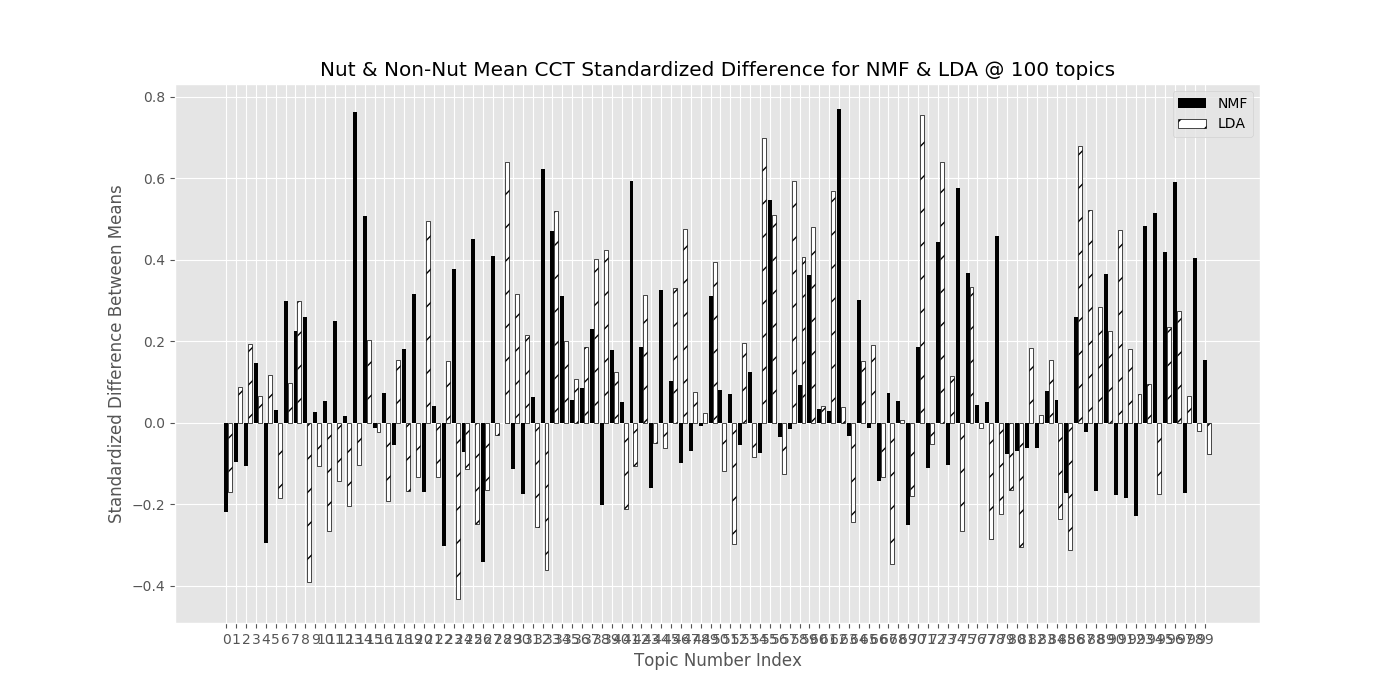
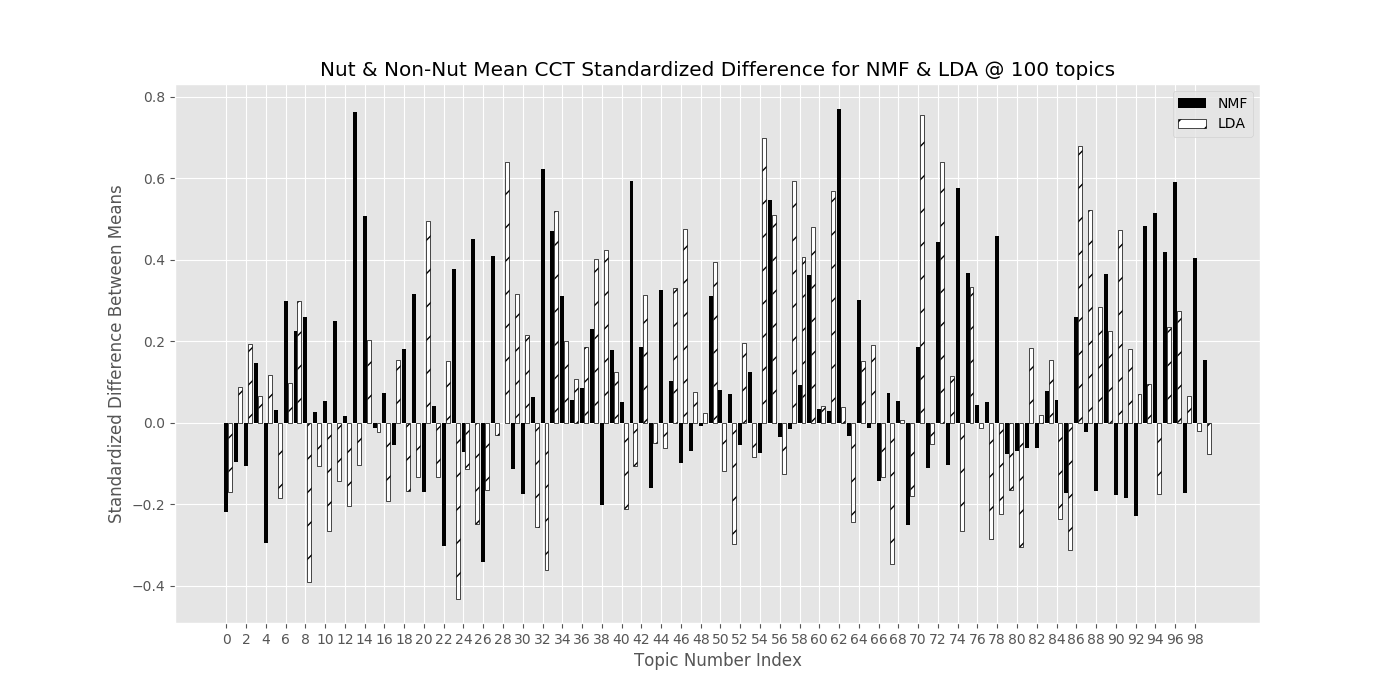
readme appendix edits for nmf and lda

Changed region(s): [[0.2457, 0.9, 0.86, 0.93]]

diff --git a/scripts/topic_analysis.py b/scripts/topic_analysis.py
@@ -389,7 +389,12 @@ def plot_nmf_lda_diff(topic_dfs_nmf, topic_dfs_lda, names_lists, n_topics):
     ax.set_title('Nut & Non-Nut Mean CCT Standardized Difference for NMF & LDA @ %s topics' % n_topics)
     ax.set_xlabel('Topic Number Index')
     ax.set_ylabel('Standardized Difference Between Means')
-    ax.set_xticks(range(n_topics))
+    if n_topics <= 50:
+        ax.set_xticks(np.arange(0, n_topics))
+    elif n_topics <= 100:
+        ax.set_xticks(np.arange(0, n_topics, 2))
+    else:
+        ax.set_xticks(np.arange(0, n_topics, 4))
     plt.legend(loc=1)
     plt.savefig('../images/diff_nmf_lda_%s.png' % n_topics)
     plt.close()

diff --git a/README.md b/README.md
@@ -194,7 +194,7 @@ To get a better idea of the differentiation of users provided by NMF and LDA, we
 
 Given that each topic number on its own is a weak classifier (no single topic across all NMF & LDA models was able to break one standard deviation of difference), this looked like a natural problem for a Boosting model. It was expected that either the Adaptive Boost or Gradient Boost would edge out the other and the Random Forest Classifier was included to see how the Boosting techniques compare to 'vanilla' Machine Learning algorithms.
 
-You can find the entire plot in the Appendix. Along with ones for other numbers of topics
+You can find the entire plot in the Appendix. Along with ones for other numbers of topics.
 
 **Model Evaluation**
 
@@ -257,6 +257,16 @@ Below are interesting plots and word clouds. They are not pertinent to the model
 
 Last warning, some racial slurs in this section.
 
+
+
+**NMF Vs. LDA**
+
+![25_topics](images/diff_nmf_lda_25.png)
+![25_topics](images/diff_nmf_lda_50.png)
+![25_topics](images/diff_nmf_lda_75.png)
+![25_topics](images/diff_nmf_lda_100.png)
+![25_topics](images/diff_nmf_lda_125.png)
+![25_topics](images/diff_nmf_lda_150.png)
 
 **ROC Curves over number of topics**
 
